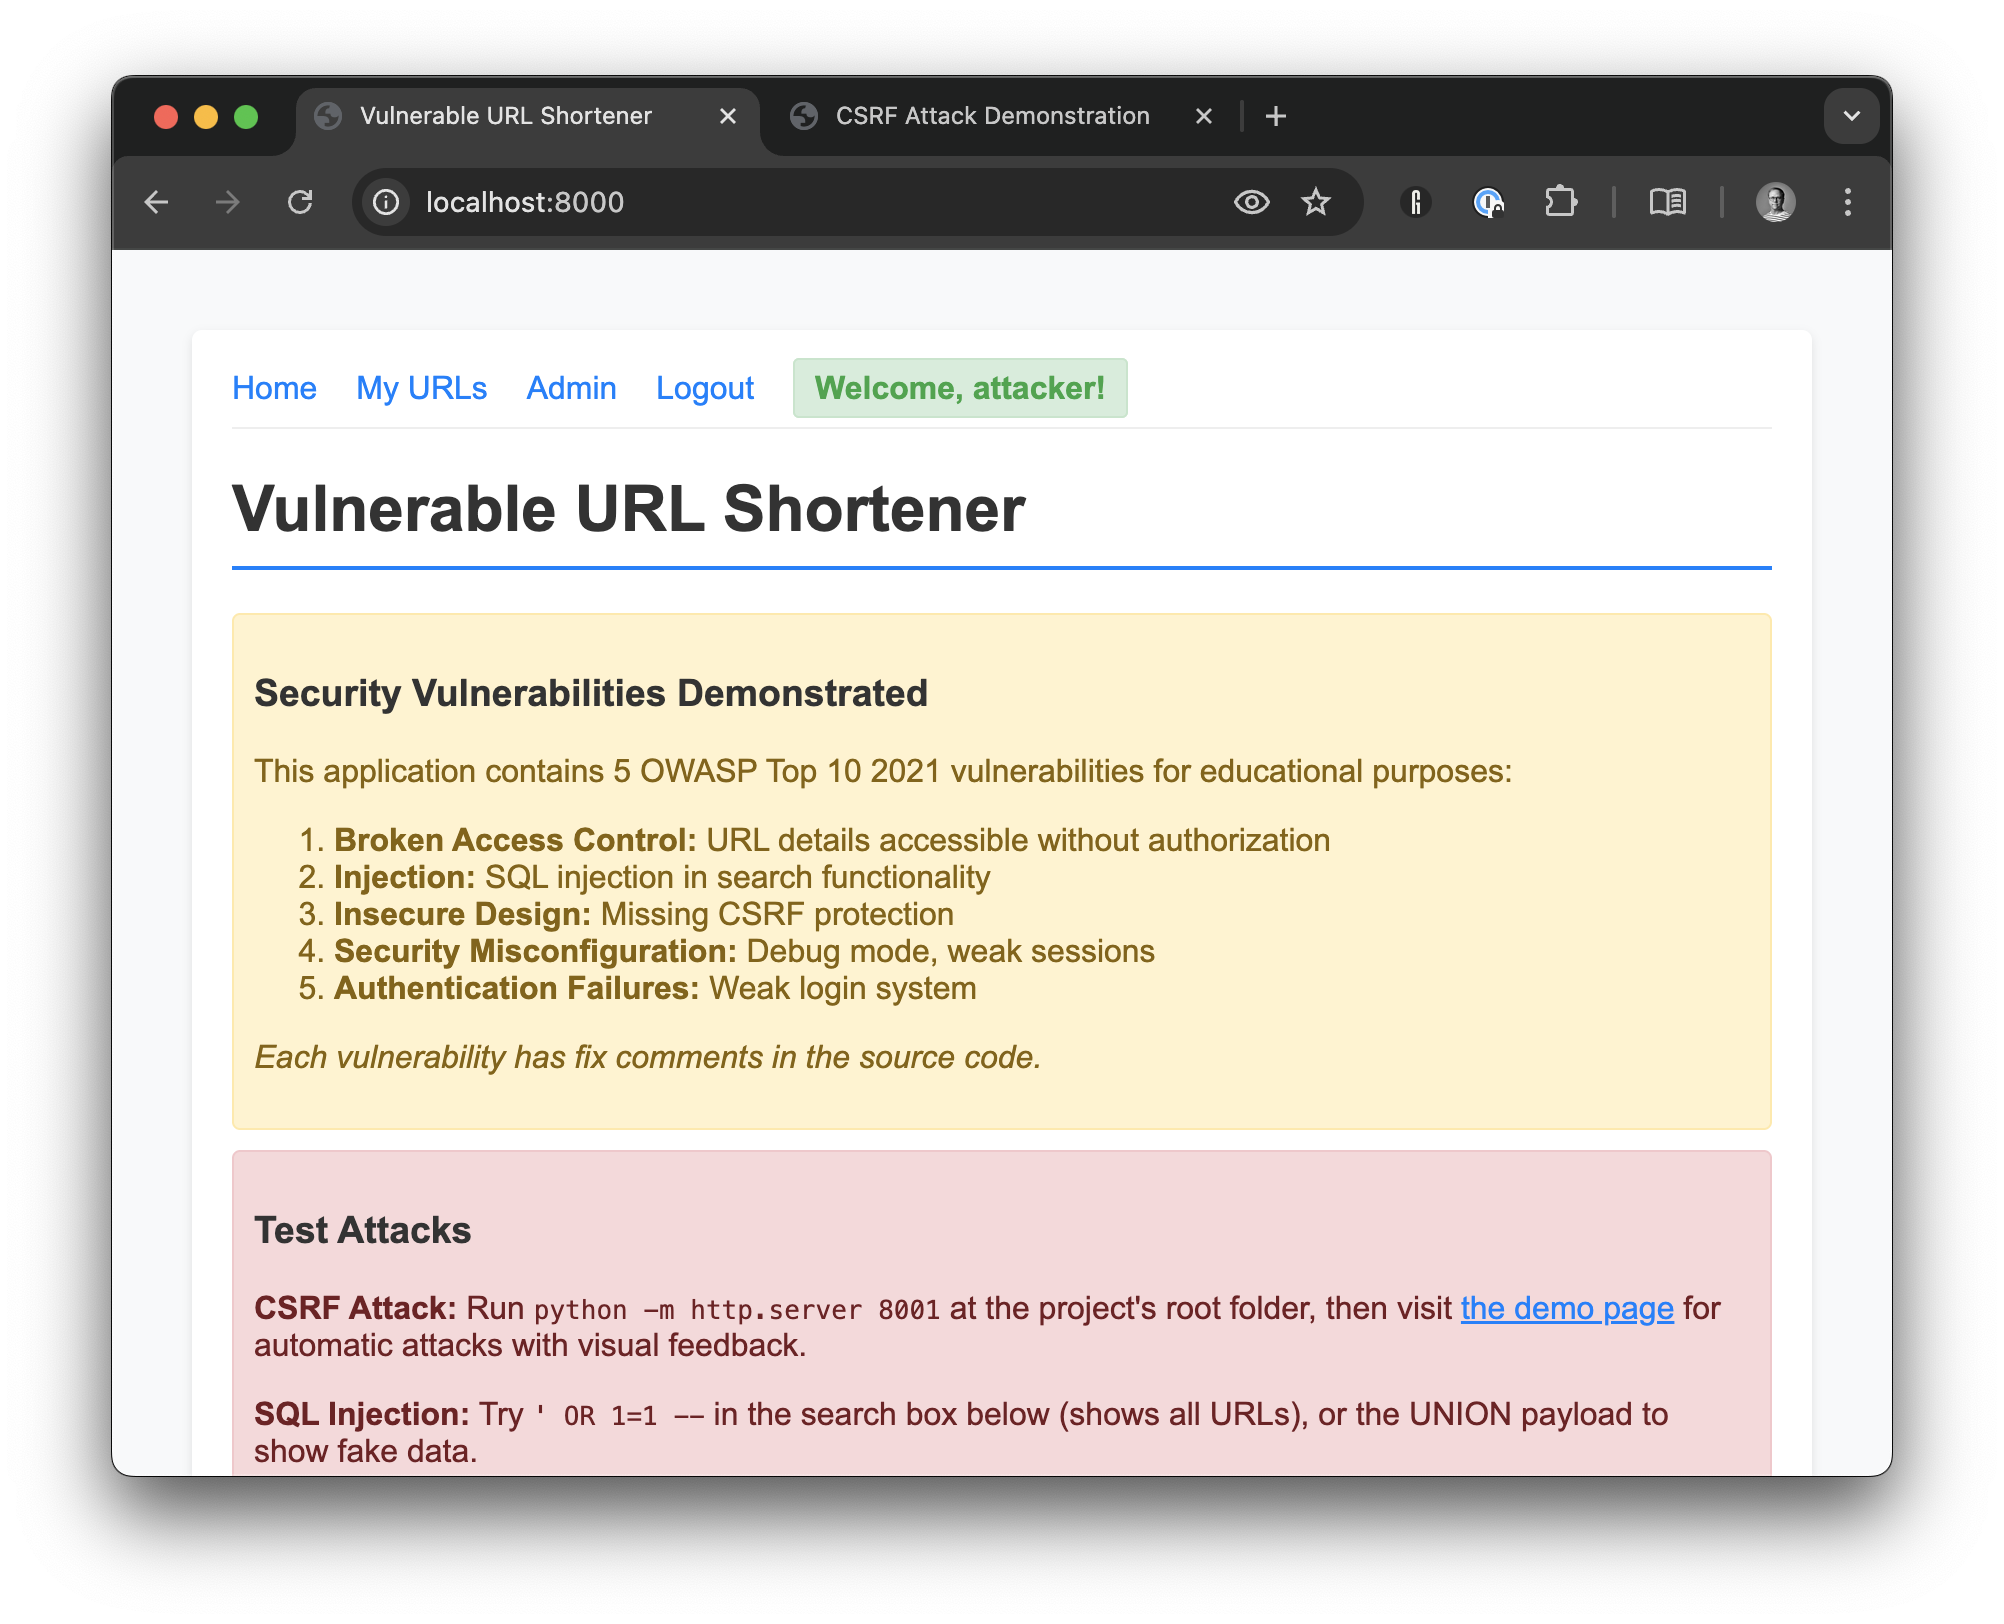
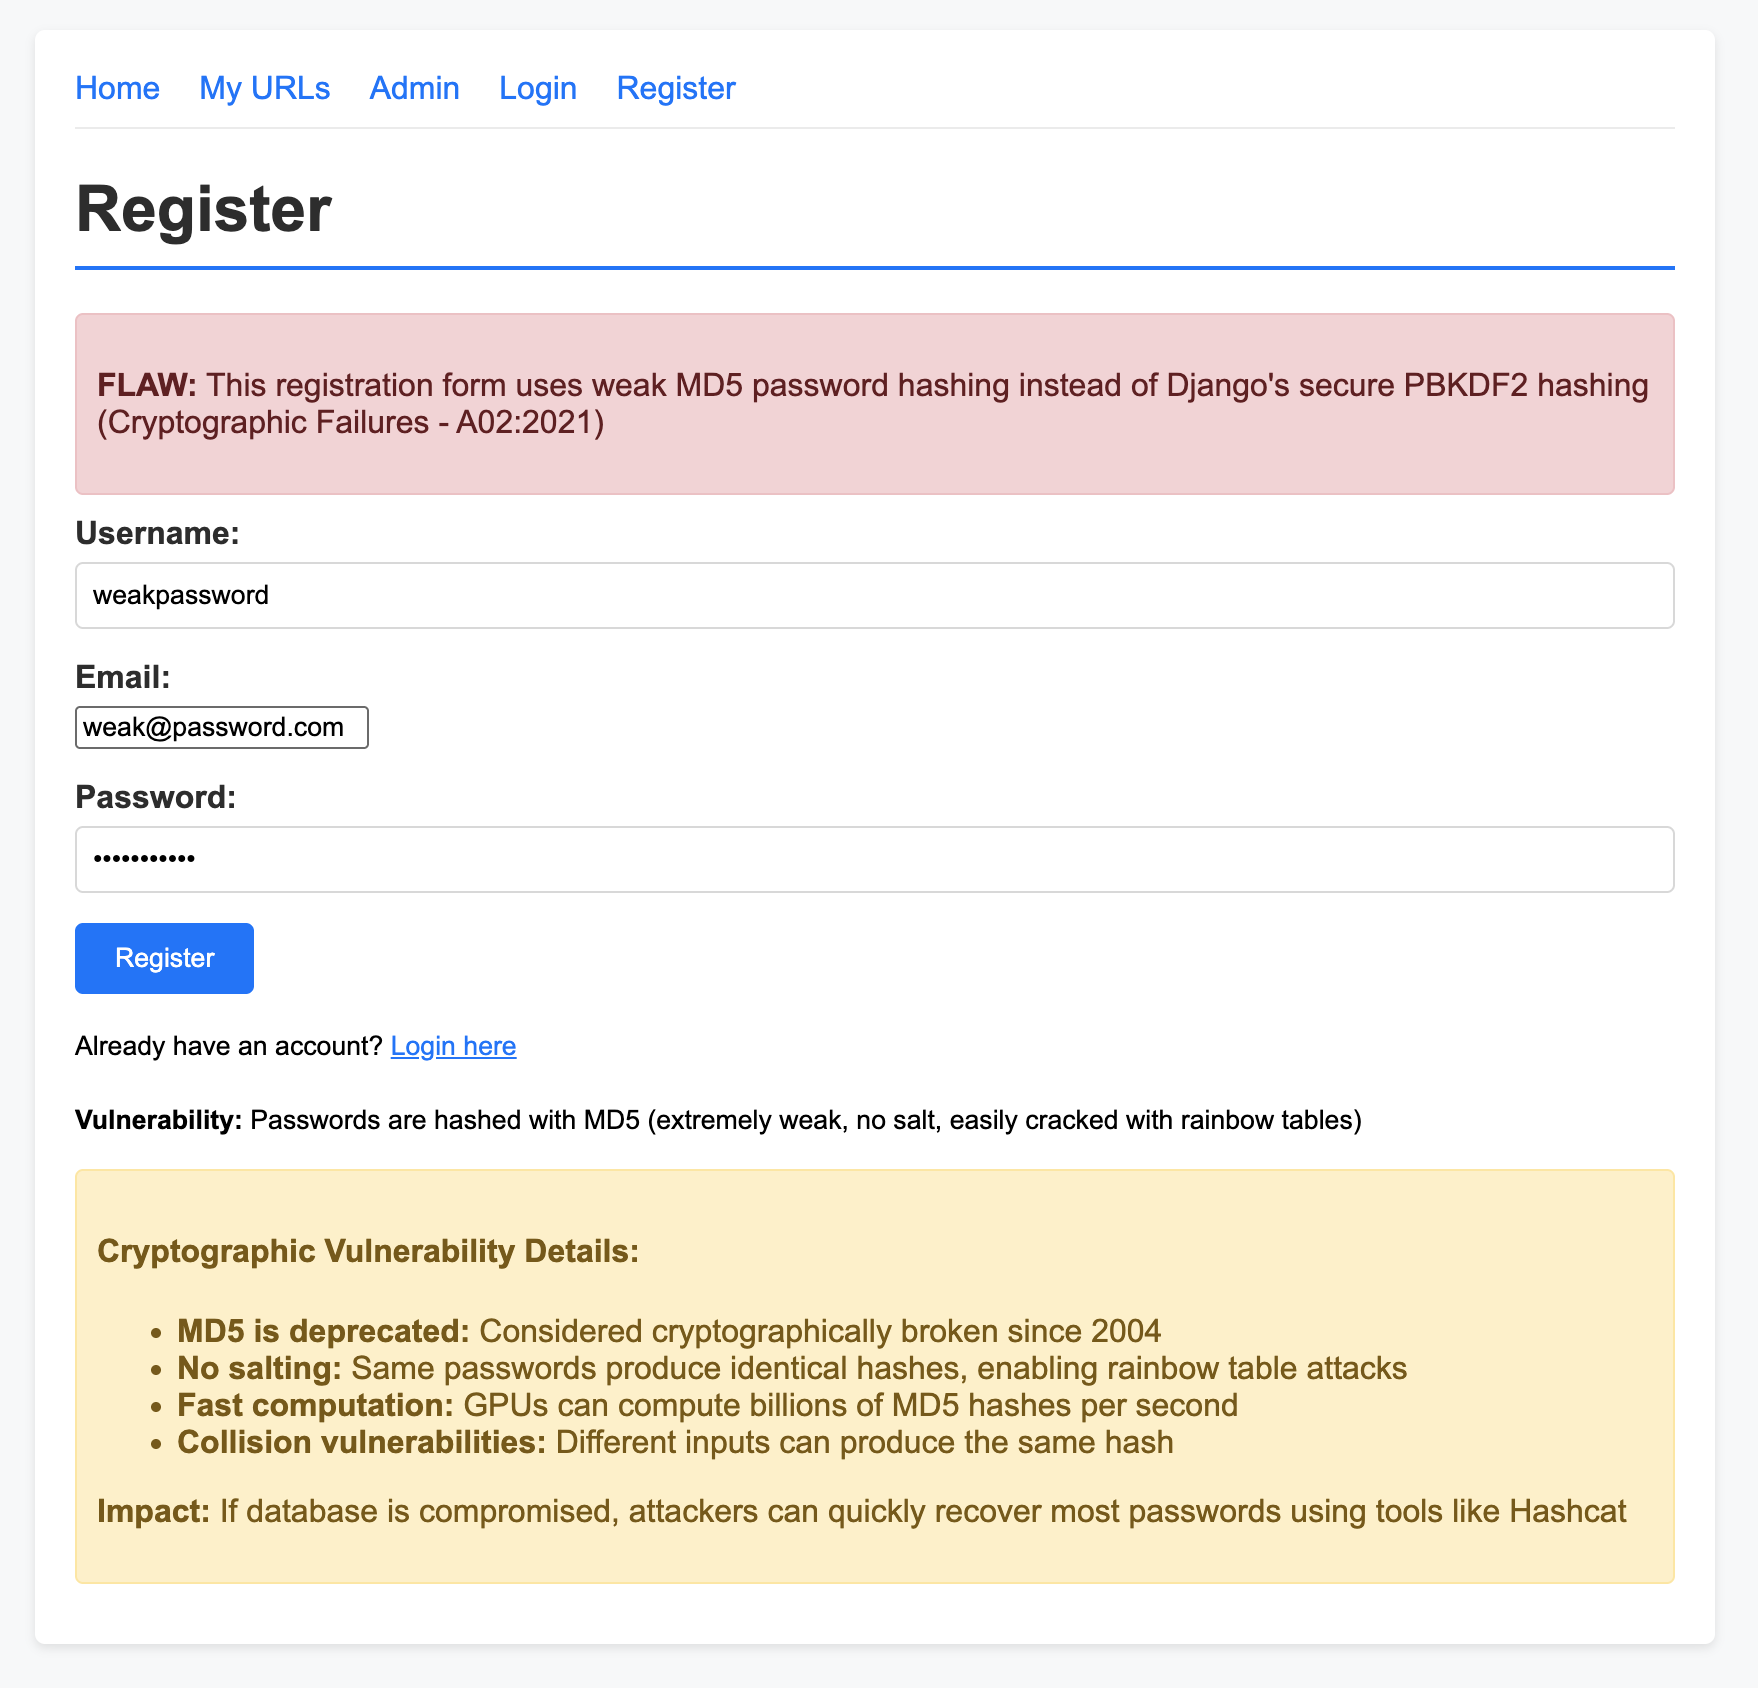
Removed old screenshots and added new

diff --git a/shortener/views.py b/shortener/views.py
@@ -209,12 +209,12 @@ def custom_register(request):
 #         username = request.POST.get('username')
 #         password = request.POST.get('password')
 #         email = request.POST.get('email', '')
-#         
+        
 #         if User.objects.filter(username=username).exists():
 #             return render(request, 'shortener/register.html', {
 #                 'error': 'Username already exists'
 #             })
-#         
+        
 #         # SECURE: Use Django's make_password which uses PBKDF2 with SHA256
 #         user = User.objects.create(
 #             username=username,
@@ -222,9 +222,9 @@ def custom_register(request):
 #         )
 #         user.set_password(password)  # Uses secure PBKDF2 hashing with salt
 #         user.save()
-#         
+        
 #         return redirect('login')
-#     
+    
 #     return render(request, 'shortener/register.html')
 
 def simple_login(request):
@@ -266,7 +266,7 @@ def simple_login(request):
 #     if request.method == 'POST':
 #         username = request.POST.get('username')
 #         password = request.POST.get('password')
-#         
+        
 #         # SECURE: Use Django's authenticate which uses check_password internally
 #         user = authenticate(request, username=username, password=password)
 #         if user:
@@ -276,7 +276,7 @@ def simple_login(request):
 #             return render(request, 'shortener/login.html', {
 #                 'error': 'Invalid credentials'
 #             })
-#     
+    
 #     return render(request, 'shortener/login.html')
 
 def simple_logout(request):
